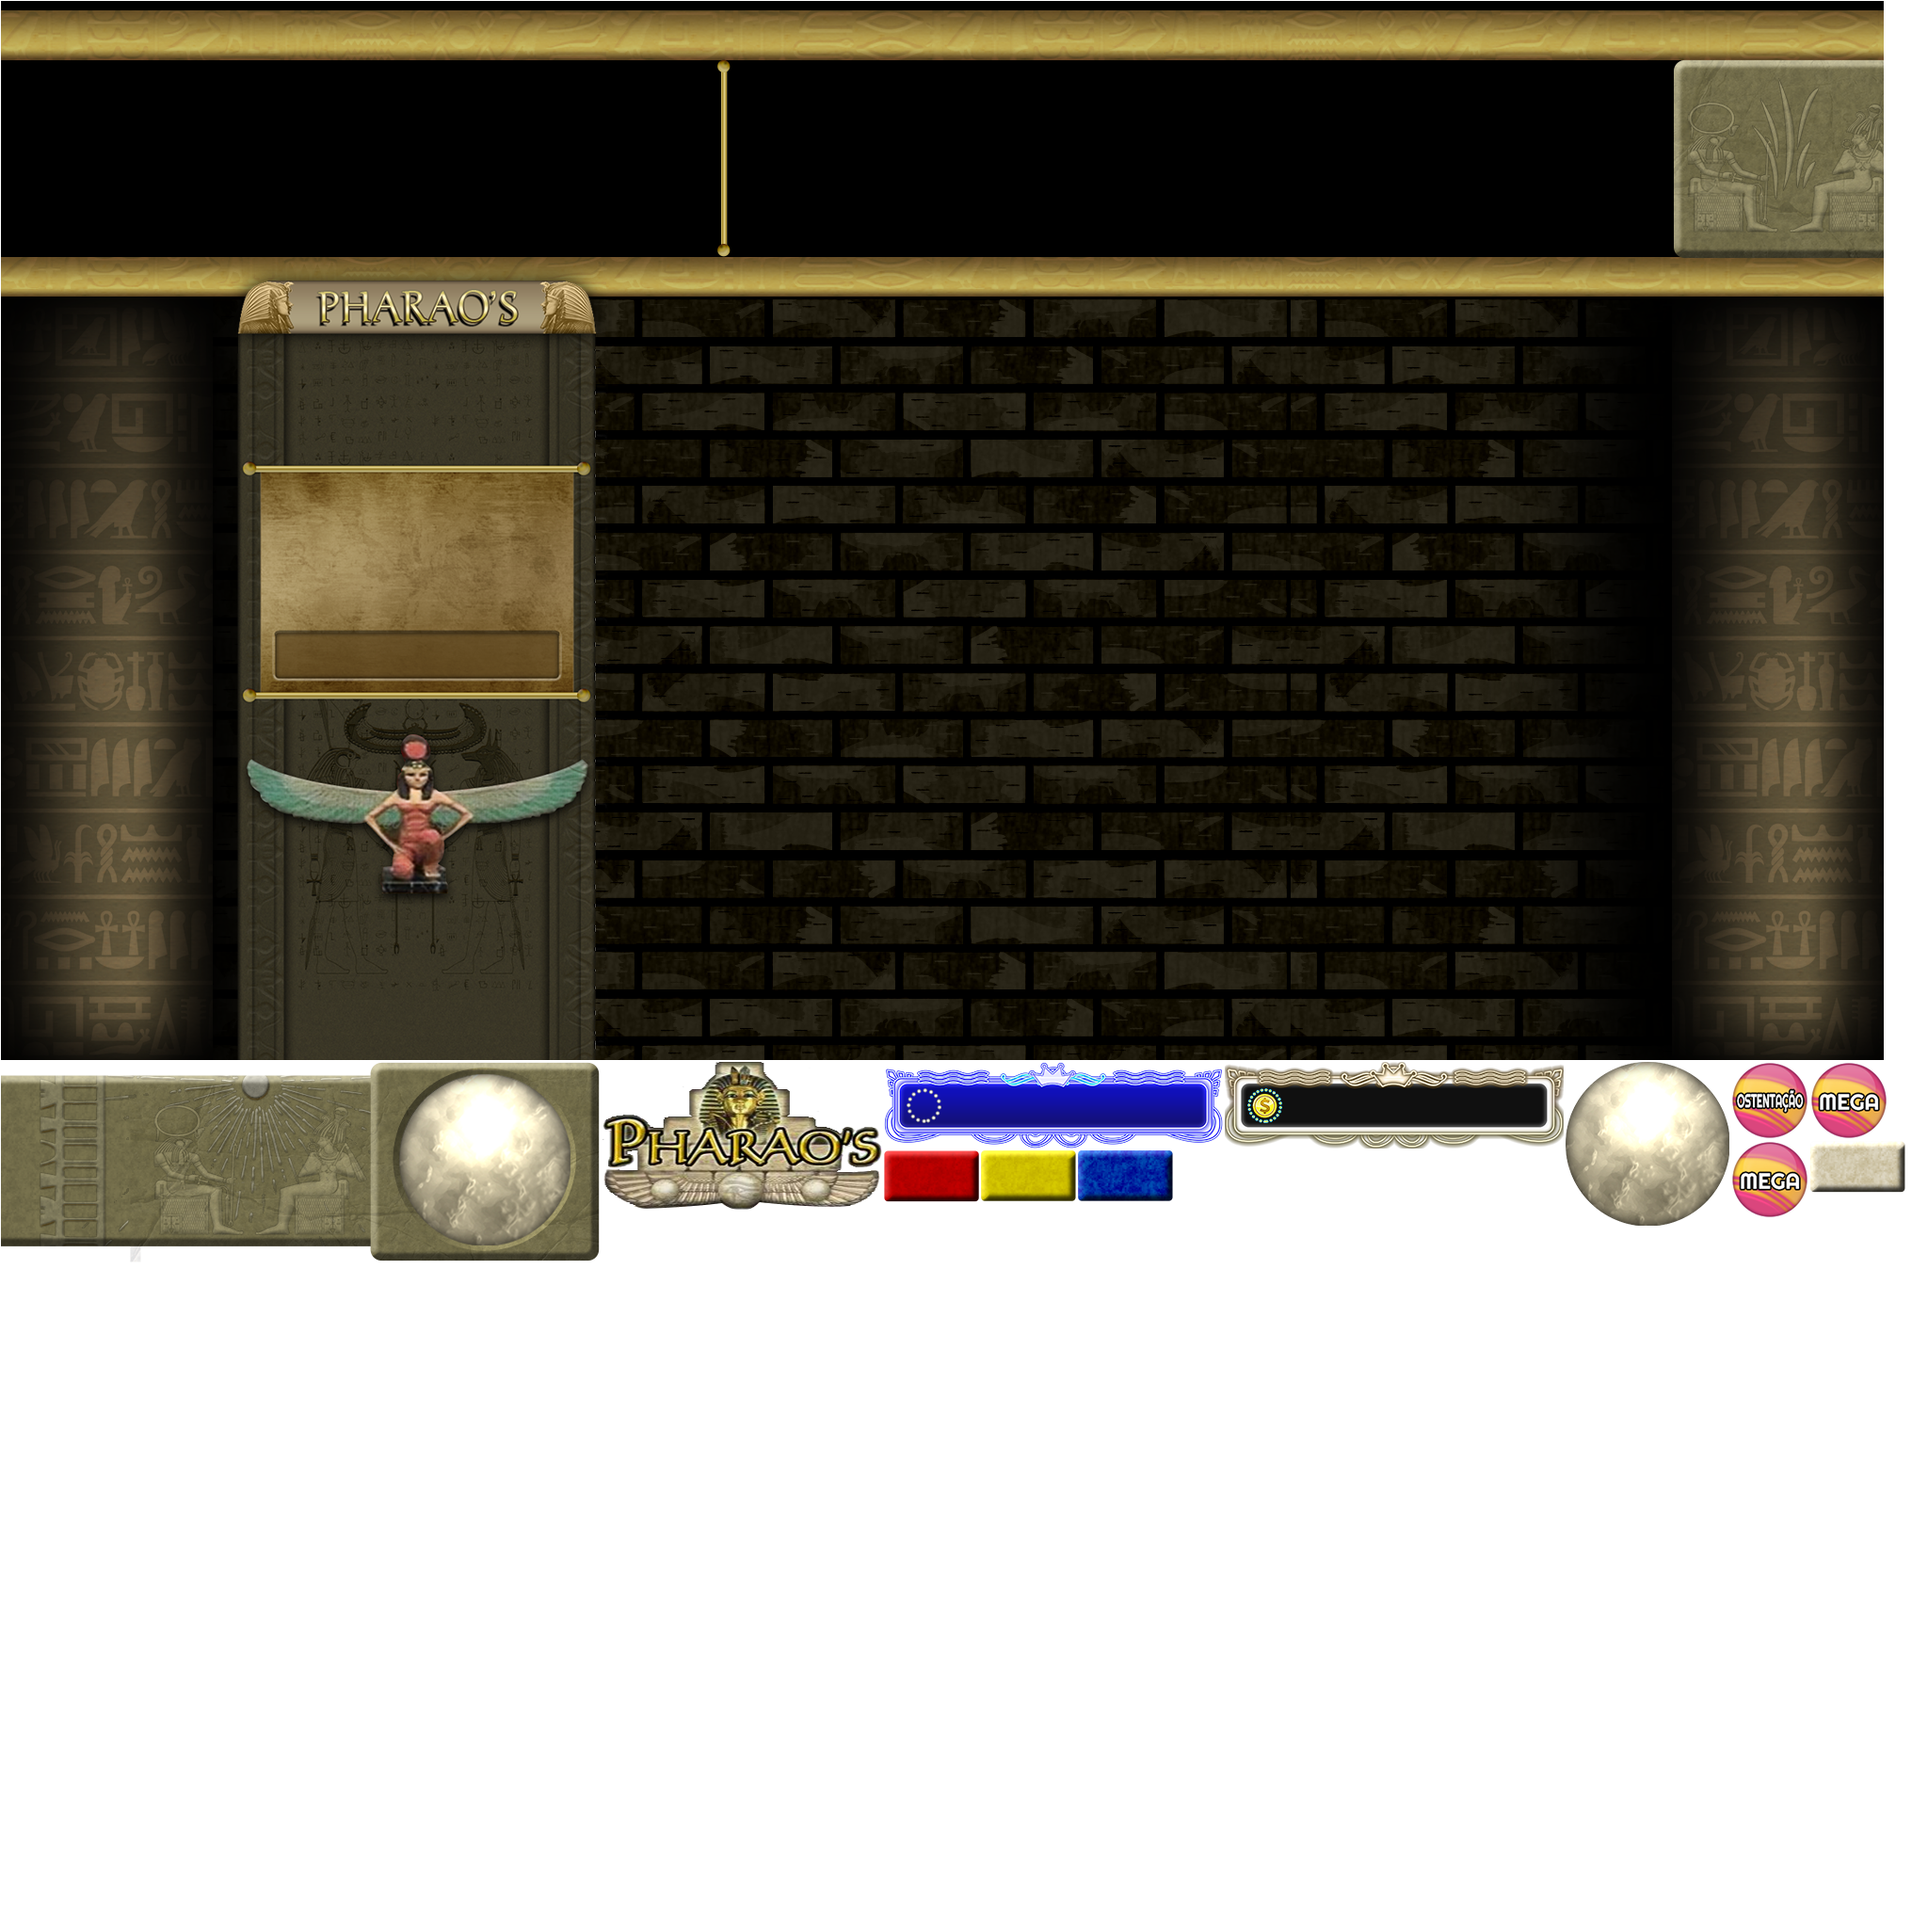
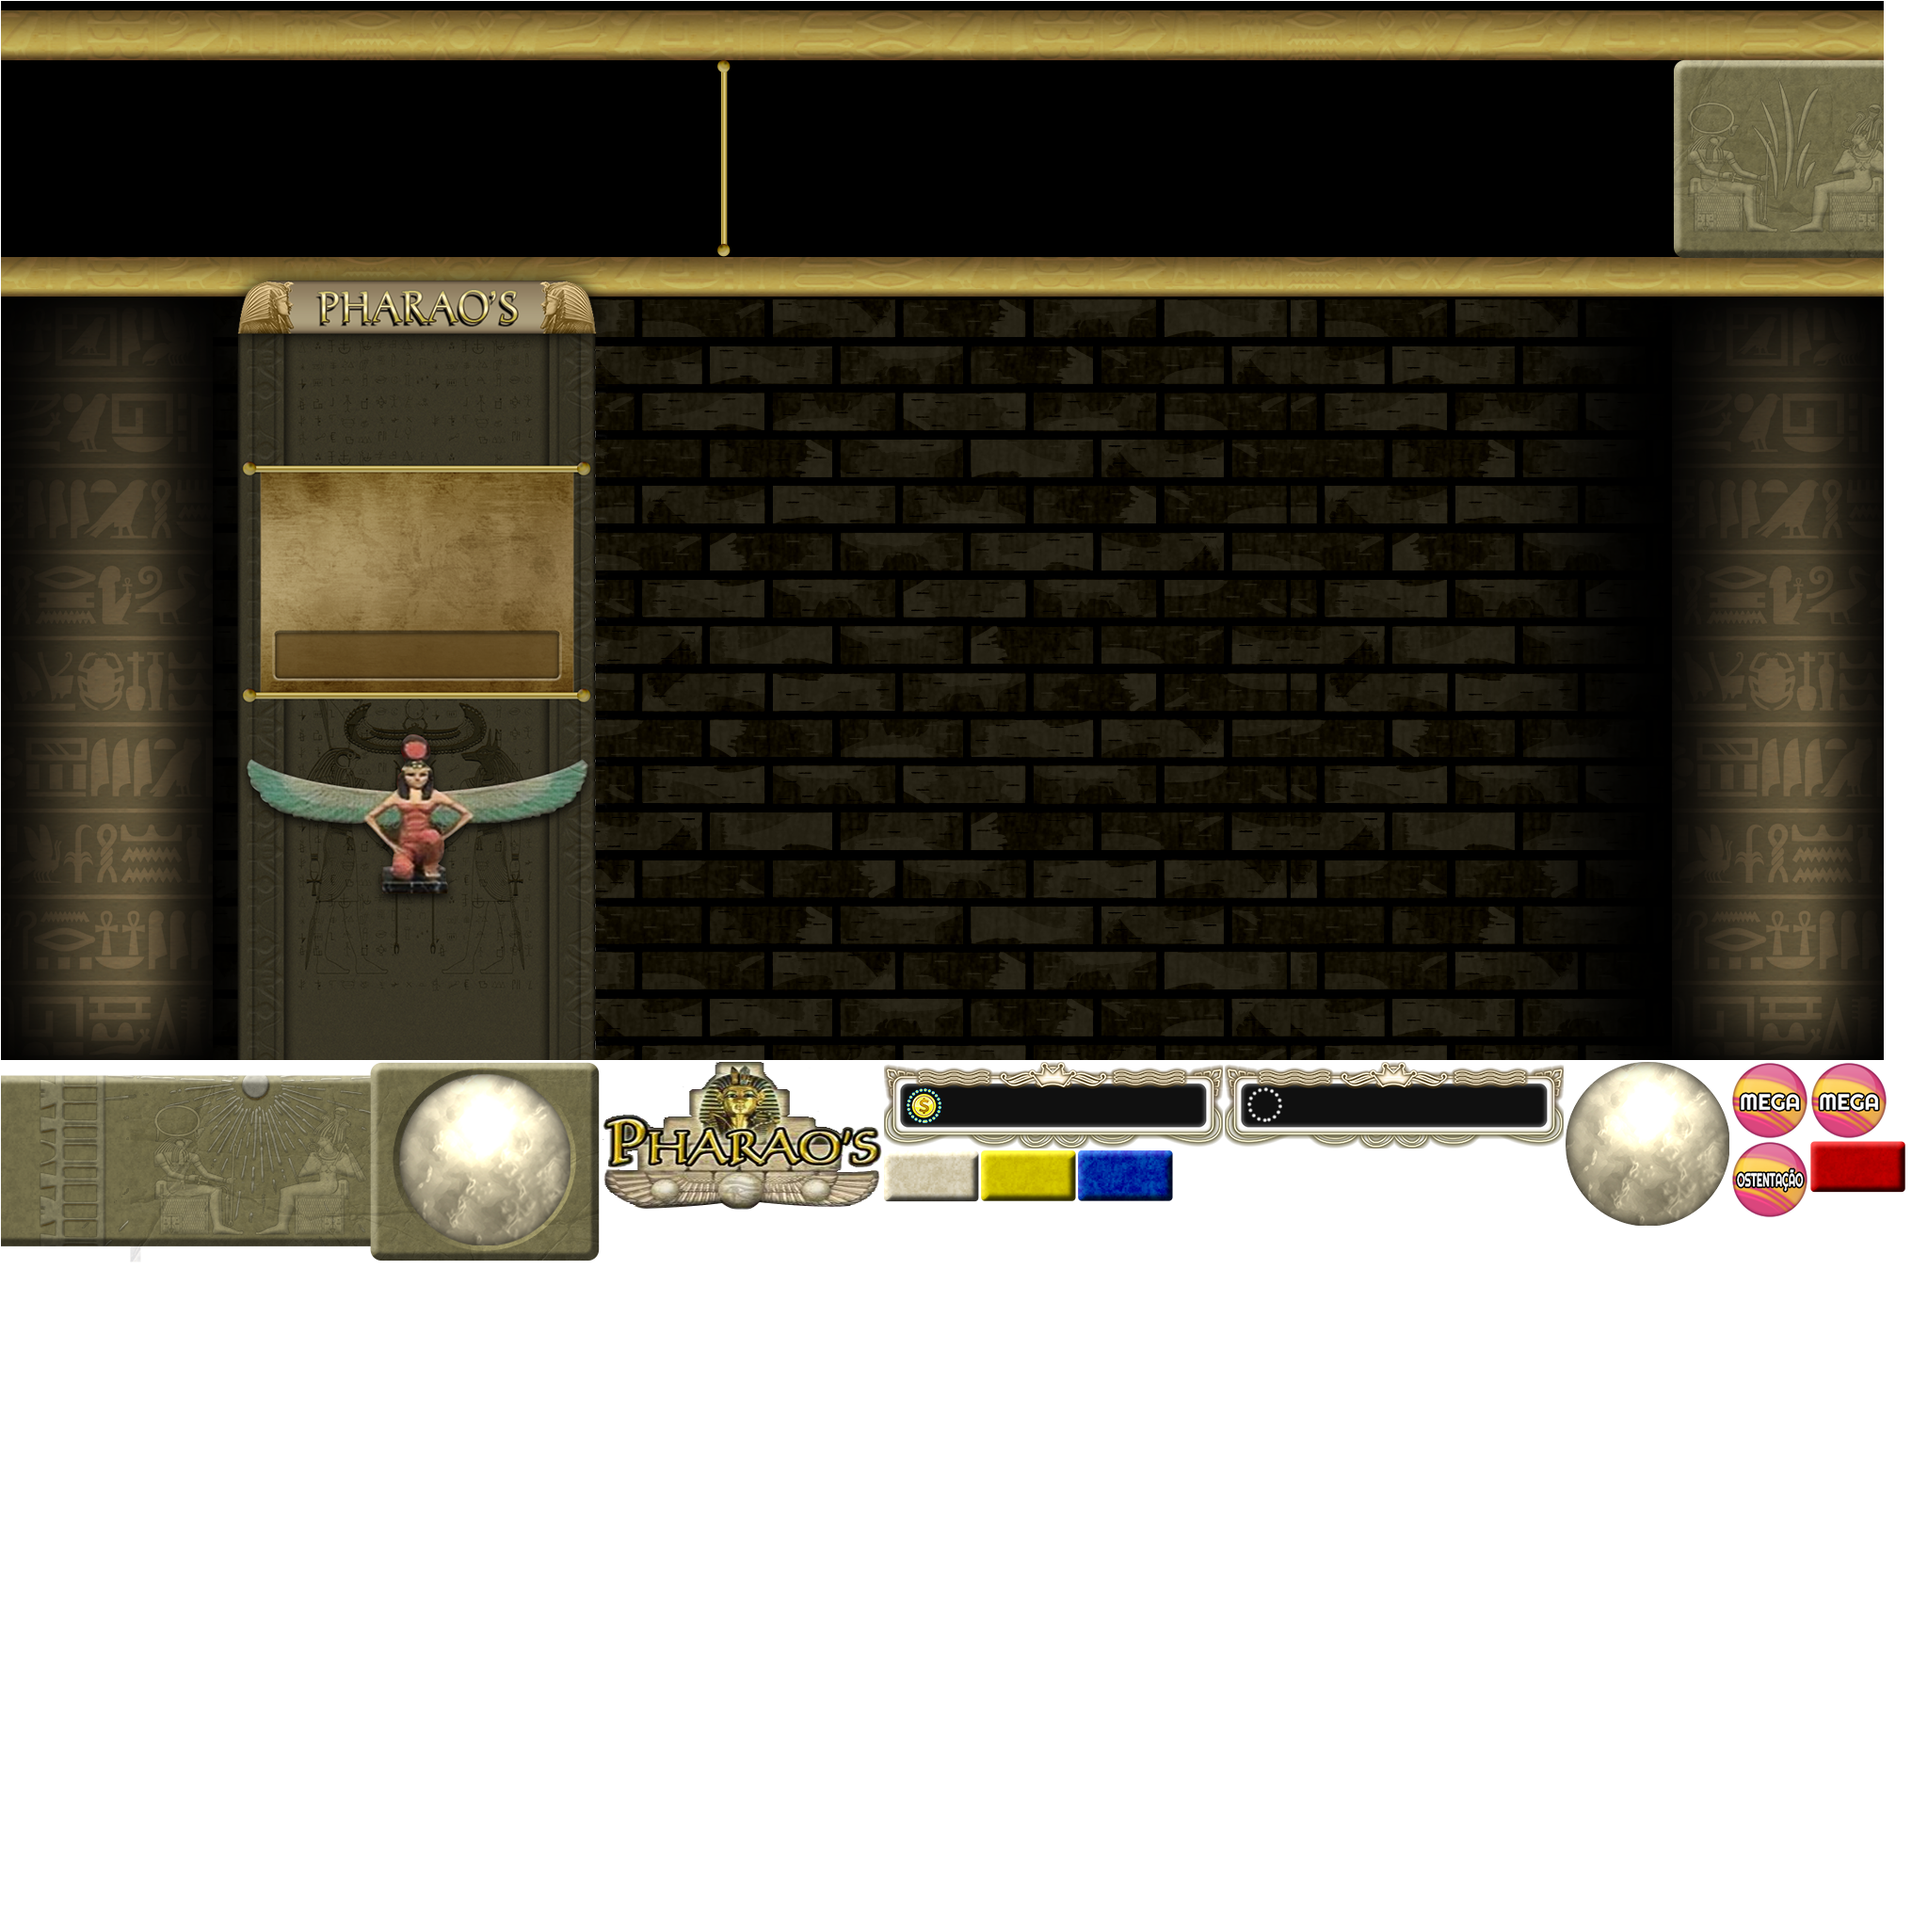
change jackpot lock assets

Changed region(s): [[0.4375, 0.5312, 0.6875, 0.625], [0.9062, 0.5625, 1.0, 0.625]]

diff --git a/newMoblie/src/bingoGames/v2games/aztecAndPharos/Pharos.ts b/newMoblie/src/bingoGames/v2games/aztecAndPharos/Pharos.ts
@@ -66,6 +66,7 @@ class Pharos extends AztecPharosSuper{
 
     protected showJackpot( jackpot: number, jackpotMinBet: number, betConfig: Array<Object> ){
         this.addChild( this.jackpotArea = new JackpotLayer( new egret.Point( 261, 374 ), jackpot, jackpotMinBet, betConfig, new egret.Point( 0, 0 ), new egret.Rectangle( 70, 30, 260, 38 ), 30, 0xFFFFE3 ) );
+        this.jackpotArea.textBold = false;
     }
 
     protected getPaytablesFit( paytabledName: string, callback: Function = null ): void{
